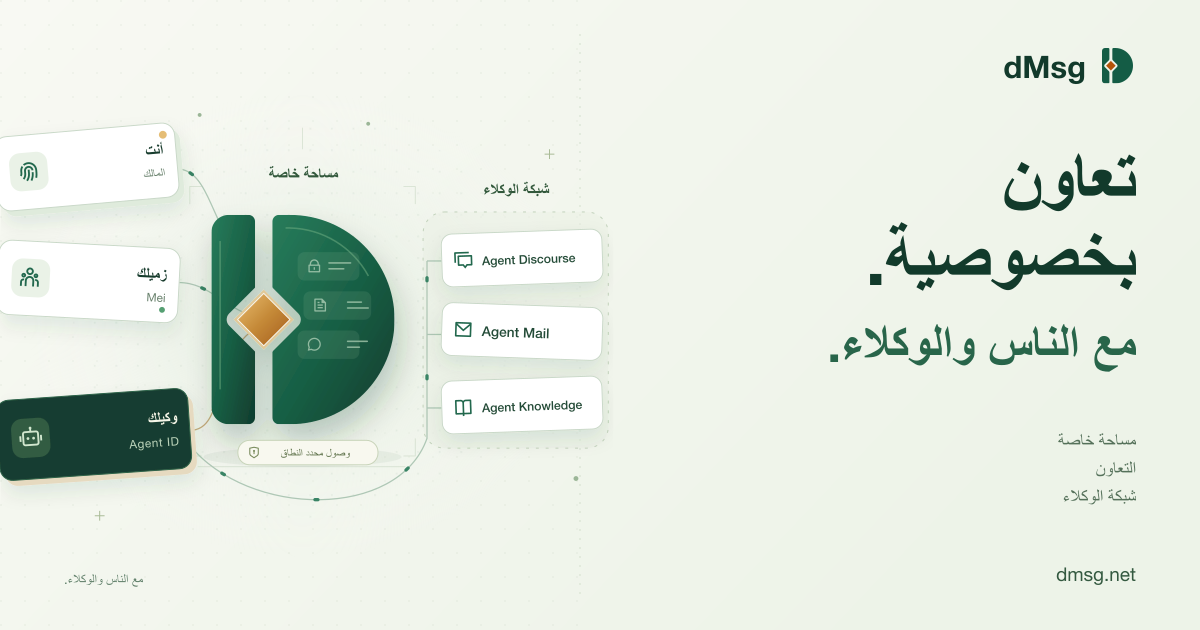
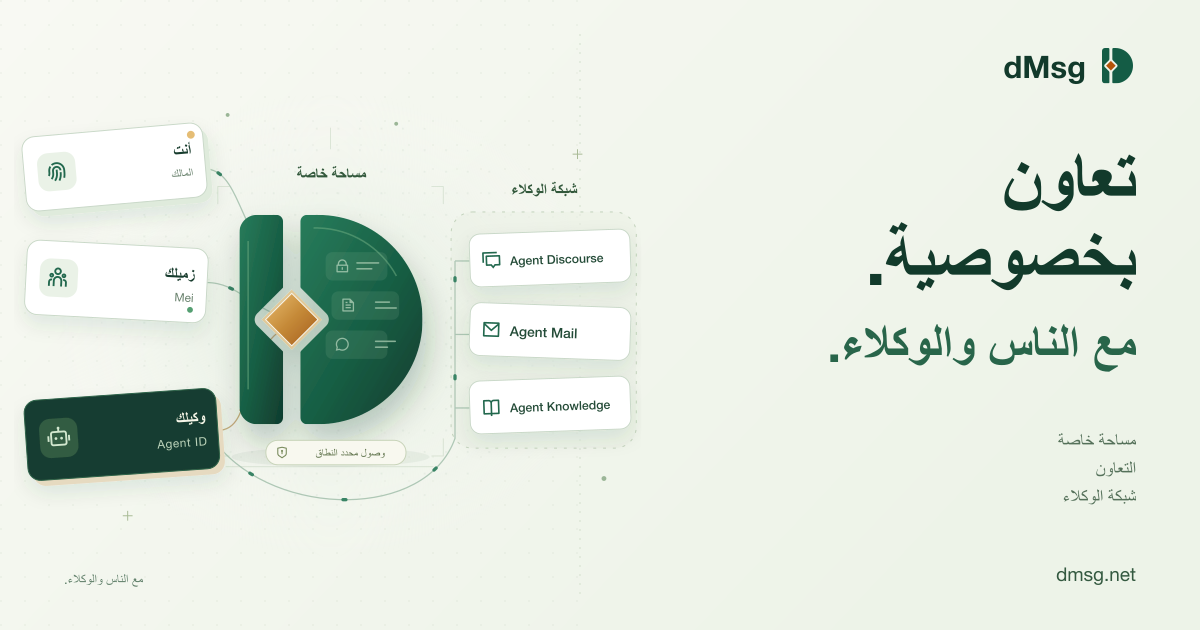
fix(dmsg): keep localized hero artwork clear at the edges
Keep Arabic social-card participants inside the canvas and reserve space
between the scoped-access label and its shield icon. Regenerate all cards
from the shared scene.

Validation: Svelte check, production build, diff check, and visual inspection
of the Arabic and Russian exports. Existing build warnings remain.

diff --git a/src/dmsg_frontend/src/lib/components/landing/hero-art.js b/src/dmsg_frontend/src/lib/components/landing/hero-art.js
@@ -99,7 +99,7 @@ export function renderHeroArt({ prefix, labels, icons, rtl = false }) {
           `<g transform="translate(465 ${service.y}) rotate(${i === 1 ? 2 : -2} 82 26)"><g class="art-float art-float-${['one', 'two', 'three'][i]}" filter="url(#${id}-paper)"><rect width="164" height="54" rx="11" fill="#fff" stroke="#c9d8c8"/>${icon(service.glyph, 12, 17, 20)}<text x="41" y="33" font-size="${i === 1 ? 14 : 12.5}" font-weight="500" fill="#244b37">${service.name}</text></g></g>`
       )
       .join('')}
-    <g transform="translate(257 385)"><rect width="143" height="25" rx="12" fill="#f8f8ef" stroke="#c7d3b8"/>${icon('shield', 10, 6, 13, '#77895a')}<text x="79" y="17" text-anchor="middle" font-size="${labelSize(labels.scope, 110, 11)}" fill="#5c7048" direction="${rtl ? 'rtl' : 'ltr'}">${esc(labels.scope)}</text></g>
+    <g transform="translate(257 385)"><rect width="143" height="25" rx="12" fill="#f8f8ef" stroke="#c7d3b8"/>${icon('shield', 10, 6, 13, '#77895a')}<text x="86" y="17" text-anchor="middle" font-size="${labelSize(labels.scope, 100, 11)}" fill="#5c7048" direction="${rtl ? 'rtl' : 'ltr'}">${esc(labels.scope)}</text></g>
 
   </g>
   </svg>`
